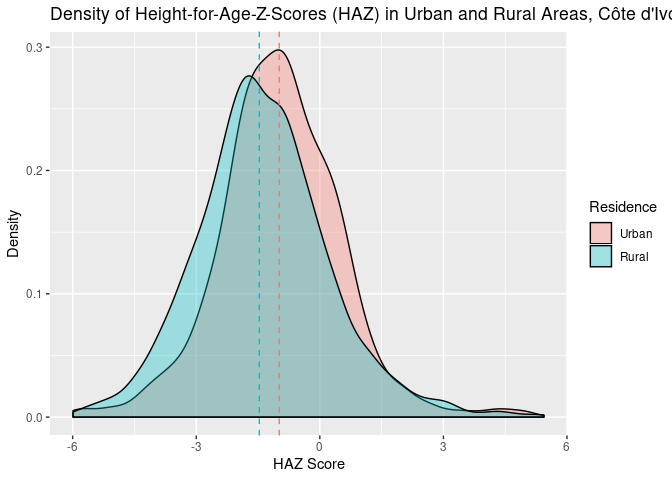
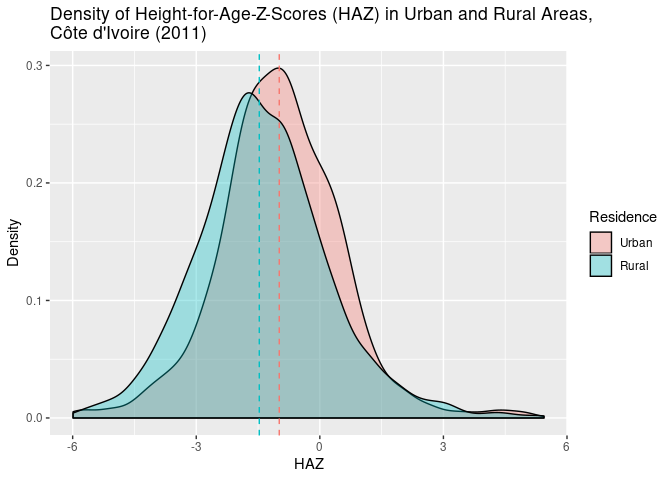
added more to analysis, copyedits

diff --git a/final-project/results/rojas_final_report.md b/final-project/results/rojas_final_report.md
@@ -8,22 +8,22 @@ Alfredo Rojas
 This preliminary project will work towards building a predictive model
 for food insecurity indicators in West Africa, using relevant
 environmental and household-related variables, as well as relying on a
-machine learning approach. This preliminary paper will rely on [DHS-IPUMS](https://www.idhsdata.org/idhs/)
-survey and environmental data for Ivory Coast and Burkina Faso (Boyle, King, and Sobek 2019). For this
-specific analysis, the survey data is restricted to 2011 and 2010,
-respectively. Since the DHS standardizes all their variables across
-survey years, i.e. the variables all have the similar code names for
-easy comparison.
+machine learning approach. This preliminary paper will rely on
+[DHS-IPUMS](https://www.idhsdata.org/idhs/) survey and environmental
+data for Burkina Faso and Ivory Coast (Boyle, King, and Sobek 2019). For
+this specific analysis, the survey data is restricted to 2010 and 2011.
+Since the DHS standardizes all their variables across survey years,
+i.e. the variables all have similar code names for easy comparison.
 
 One way to measure food insecurity in a region is to look at its
-consequences for health. For example, researchers have measured these consequences by
-looking at malnutrition in children, which leads to growth faltering, a
-popular overall indicator of a child’s health, as well as an indicator
-of social inequalities (de Onis and Branca 2016). Growth faltering is
-measured in height-for-age z-score (HAZ), where scores below -2 mean
-stunted growth. In West and Central Africa, nearly 32% of children are
-stunted (UNICEF 2020). Measuring stunting, therefore, is a crucial
-avenue to study the drivers of food insecurity.
+consequences for health. For example, one method to measure these
+consequences is by looking at malnutrition in children, which leads to
+growth faltering, a popular overall indicator of a child’s health, as
+well as an indicator of social inequalities (de Onis and Branca 2016).
+Growth faltering is measured in height-for-age z-score (HAZ), where
+scores below -2 mean stunted growth. In West and Central Africa, nearly
+32% of children are stunted (UNICEF 2020). Measuring stunting,
+therefore, is a crucial avenue to study the drivers of food insecurity.
 
 In this project, I rely on survey data collected through the Demographic
 Health Survey (DHS) vaiables related to food security, as well as
@@ -32,13 +32,13 @@ Common variables, according to Gubert, et al. (2010) are: per capital
 income, years of schooling, race and gender of HH head, urban/rural
 residence, access to public water supply, presence of children, total
 number of household inhabitants, and state of residence. In the
-DHS-IPUMS data, I have access to:
+DHS-IPUMS data, I have access to and will use:
 
   - Number of household members
   - Urban/rural household residence
   - Agricultural holdings
   - Wealth index
-  - HAZ scores
+  - HAZ
   - Proportion of cropland within household cluster
   - mean monthly maximum Normalized Difference Vegetation Index (NDVI)
     across, 60 months before and 11 months after survey date
@@ -50,28 +50,28 @@ DHS-IPUMS data, I have access to:
 The dependent variable will be HAZ score, while the rest will act as
 explanatory variables.
 
-## What is an HAZ score?
+## What is a HAZ?
 
-Height for weight z-scores, or standard deviation scores, are indices to
+Height for age z-scores, or standard deviation scores, are indices to
 measure linear growth potential in children under age 5, where lower
 scores (HAZ \< -2) indicate stunting as a result of poor health
 conditions and undernutrition (see,
 [WHO](https://www.who.int/nutgrowthdb/about/introduction/en/index2.html)
-article). While HAZ scores are measured for children at any age under 5
-years old, recent research as argued that HAZ scores for children
-between 0-23 months should be analyzed separately since the impacts of
-malnutrition or any protective factors have not manifested until after
-23 months (Alderman and Headey 2018). For the sake of simplicity in this
-analsis, I do not differentiate between age. But as I develop this
-project, this separation will be necessary.
+article). While HAZ is measured for children at any age under 5 years
+old, recent research as argued that HAZ scores for children between 0-23
+months should be analyzed separately since the impacts of malnutrition
+or any protective factors have not manifested until after 23 months
+(Alderman and Headey 2018). For the sake of simplicity in this analsis,
+I do not differentiate between age. But as I develop this project, this
+separation will be necessary.
 
 ## Burkina Faso (2010) and Ivory Coast (2011) data
 
 I chose to compare the 2010 and 2011 data for Burkina Faso and Ivory
-Coast, respectively. While it should not be underestimated that regional
-differences exist between the tropical, Sudanian savanna, and Sahelian
-regions going south to north, I do not explicitly account for these
-differences in this preliminary stage.
+Coast (Côte d’Ivoire in French), respectively. While it should not be
+underestimated that regional differences exist between the tropical,
+Sudanian savanna, and Sahelian regions going south to north, I do not
+explicitly account for these differences in this preliminary stage.
 
 Below, I show all of the GPS points of the sample clusters for these two
 surveys. GPS points are randomly offset by approximately 5 to 10
@@ -87,21 +87,22 @@ This analysis uses the R statistical programming language to clean,
 process, visualize, and analyze the DHS-IPUMS data. The predictive model
 will rely on a Random Forest binary classifier, testing the importance
 of each explanatory variable in predicting whether a child has an HAZ
-score below -2 or not. I rely on the `caret` package to construct the
-model. By nature of constructing a binary classifier, I categorized HAZ
-scores below -2 as “1” and anything above as “0”.
+below -2 or not. I rely on the `caret` package to construct the model.
+By nature of constructing a binary classifier, I categorized HAZ scores
+below -2 as “1” and anything above as “0”. All HAZ values above 6 and
+below -6 are dropped.
 
 The environmental variables, like maximum monthly NDVI, precipitation,
 and temperature are provided by IPUMS for 60 months before the survey
-month and 11 months after. This analysis takes the total average for
-these variables. For individual HAZ scores, there are a total of 10,164
-observations.
+month and 11 months after at the cluster level. This analysis takes the
+total average for these variables. For individual HAZ values, there are
+a total of 10,164 observations.
 
 ## Looking at the distribution of height for age scores
 
-In general, rural HAZ scores are lower than urban HAZ scores for both
-Ivory Coast and Burkina Faso. Overall, median HAZ scores are below zero.
-In the charts below, I provide probability density graphs to examine the
+In general, rural HAZ values are lower than urban HAZ for both Ivory
+Coast and Burkina Faso. Overall, median HAZ are below zero. In the
+charts below, I provide probability density graphs to examine the
 general distribution of scores across rural and urban
 areas.
 
@@ -150,7 +151,7 @@ set.seed(12)
 control <- trainControl(method ="repeatedcv", 
                         repeats = 3, 
                         classProbs = F, 
-                        summaryFunction = multiClassSummary)      
+                        summaryFunction = multiClassSummary)       
 
 rf_haz <- train(stunting ~ ., 
                 data = train_dataset, 
@@ -166,39 +167,42 @@ confusionMatrix(factor(haz_predict), factor(test_dataset$stunting))
     ## 
     ##           Reference
     ## Prediction    0    1
-    ##          0 1342  645
-    ##          1   28   17
+    ##          0 1353  654
+    ##          1   17    8
     ##                                           
-    ##                Accuracy : 0.6688          
-    ##                  95% CI : (0.6479, 0.6893)
+    ##                Accuracy : 0.6698          
+    ##                  95% CI : (0.6489, 0.6902)
     ##     No Information Rate : 0.6742          
-    ##     P-Value [Acc > NIR] : 0.7076          
+    ##     P-Value [Acc > NIR] : 0.6743          
     ##                                           
-    ##                   Kappa : 0.0069          
+    ##                   Kappa : -4e-04          
     ##                                           
     ##  Mcnemar's Test P-Value : <2e-16          
     ##                                           
-    ##             Sensitivity : 0.97956         
-    ##             Specificity : 0.02568         
-    ##          Pos Pred Value : 0.67539         
-    ##          Neg Pred Value : 0.37778         
+    ##             Sensitivity : 0.98759         
+    ##             Specificity : 0.01208         
+    ##          Pos Pred Value : 0.67414         
+    ##          Neg Pred Value : 0.32000         
     ##              Prevalence : 0.67421         
-    ##          Detection Rate : 0.66043         
-    ##    Detection Prevalence : 0.97785         
-    ##       Balanced Accuracy : 0.50262         
+    ##          Detection Rate : 0.66585         
+    ##    Detection Prevalence : 0.98770         
+    ##       Balanced Accuracy : 0.49984         
     ##                                           
     ##        'Positive' Class : 0               
     ## 
 
-Overall, the accuracy of the model is not great, around 67%. According
-to the below graph, the most important variables were many of the
+Overall, the accuracy of the model is not great at around 67%.
+Additonally, there was a lot of confusion where a lot of 0’s were
+classified as 1’s. Therefore, the model is not very good. According to
+the below graph, the most important variables were many of the
 environmental variables, like NDVI, precipitation, temperature, and
 amount of cropland. Sensitivity to environmental variables is consistent
 with literature exploring these associations between climate and
 childhood health (Bakhtsiyarava, Grace, and Nawrotzki 2018). These
 results indicate that more consideration needs to be taken when
 constructing this model, perhaps taking childhood age in relation to HAZ
-score as a consideration (Alderman and Heady 2018).
+as a consideration (Alderman and Heady 2018), increasing the sample
+size, and finding other relevant variables.
 
 ![](rojas_final_report_files/figure-gfm/var-imp-1.png)<!-- -->
 
@@ -209,11 +213,11 @@ score as a consideration (Alderman and Heady 2018).
     ##                      Number of trees: 500
     ## No. of variables tried at each split: 2
     ## 
-    ##         OOB estimate of  error rate: 32.55%
+    ##         OOB estimate of  error rate: 32.58%
     ## Confusion matrix:
     ##      0  1 class.error
-    ## 0 5397 86  0.01568484
-    ## 1 2561 88  0.96677992
+    ## 0 5417 66  0.01203721
+    ## 1 2583 66  0.97508494
 
 Associations can be seen between HAZ and mean temperature, as well as
 between HAZ and mean NDVI. Maximum temperature extremes seems to have a
@@ -226,13 +230,14 @@ scores.
 ## Concluding remarks
 
 In this project, I explored factors driving childhood stunting using
-DHS-IPUMS data to move toward a predictive model of low HAZ scores.
-Overall, the Random Forest binary classifier was 67% accurate.
-Performance may be imporved if HAZ scores were distinguished by age
-groups,if environmental data were aggregated differently, and if other
-relevant variables were included. As is consistent with current
-literature on climate and child nutrition, many of the environmental
-variables had high levels of importance for the classifier.
+DHS-IPUMS data to move toward a predictive model of low HAZ. Overall,
+the Random Forest binary classifier was 67% accurate and contained of
+misclassified values. Performance may be imporved if HAZ were
+distinguished by age groups, if environmental data were aggregated
+differently, if sample size was increased, and if other relevant
+variables were included. As is consistent with current literature on
+climate and child nutrition, many of the environmental variables had
+high levels of importance for the classifier.
 
 ## References
 
@@ -246,8 +251,9 @@ Bakhtsiyarava, Maryia, Kathryn Grace, and Raphael J. Nawrotzki. 2017.
 Mali.” American Journal of Public Health 108 (S2): S144–50.
 <https://doi.org/10.2105/AJPH.2017.304128>.
 
-Boyle, Elizabeth Heger, Miriam King and Matthew Sobek. IPUMS-Demographic and Health Surveys: Version 7 [dataset]. Minnesota Population Center and ICF International, 2019. 
-<https://doi.org/10.18128/D080.V7>
+Boyle, Elizabeth Heger, Miriam King and Matthew Sobek. IPUMS-Demographic
+and Health Surveys: Version 7 \[dataset\]. Minnesota Population Center
+and ICF International, 2019. <https://doi.org/10.18128/D080.V7>
 
 Gubert, Muriel Bauermann, and Maria Helena D’Aquino Benício. 2010. “Use
 of a Predictive Model for Food Insecurity Estimates in Brazil.” Archivos
